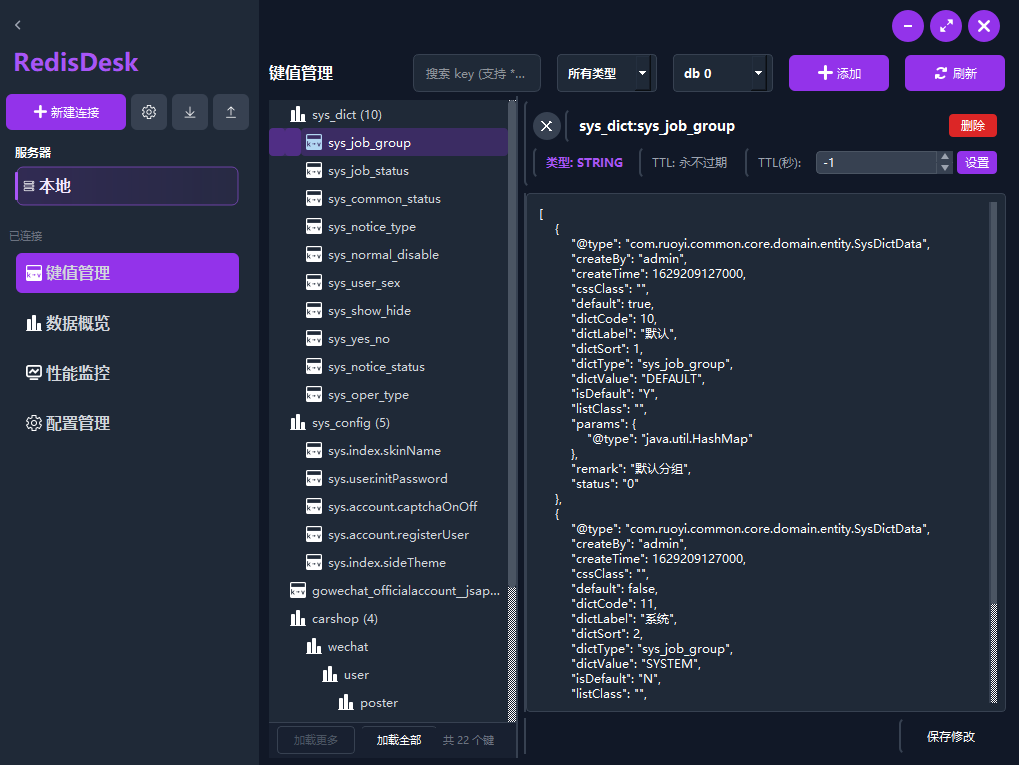
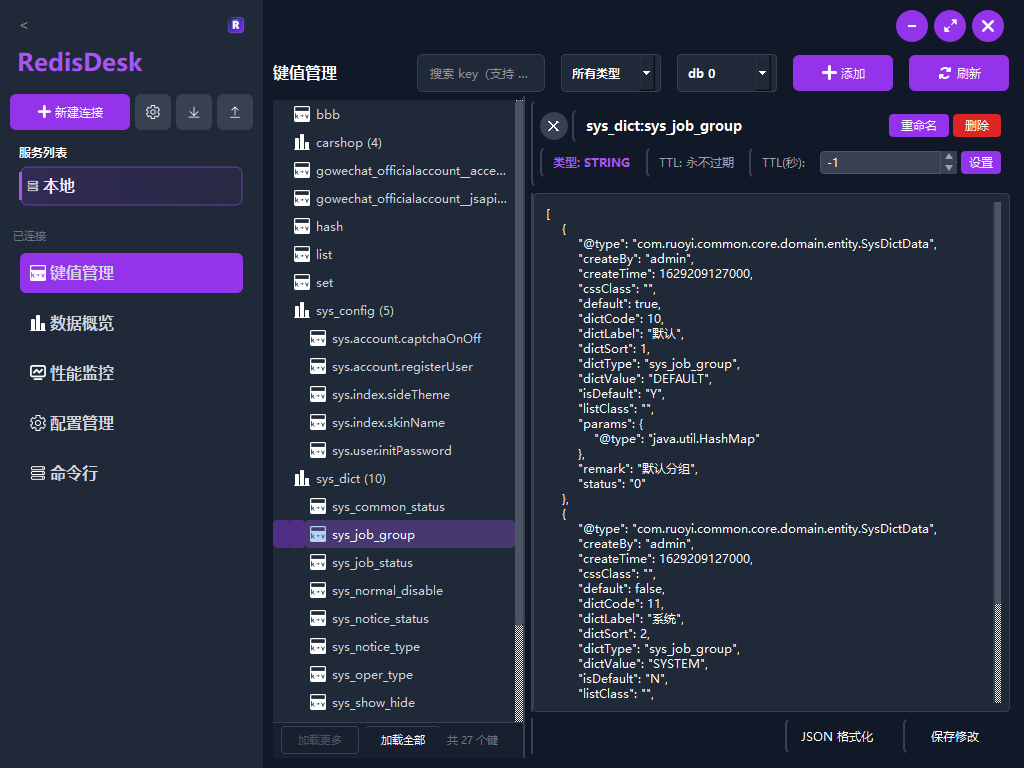
Update docs screenshots and CLI references

diff --git a/docs/project-analysis.md b/docs/project-analysis.md
@@ -2,7 +2,7 @@
 
 ## 项目概述
 
-**RedisDesk** 是一个用 C++17 + Qt Widgets 构建的桌面端 Redis 管理工具，面向开发、调试和运维场景，允许用户通过图形界面可视化地管理和监控 Redis 实例，无需使用命令行工具。
+**RedisDesk** 是一个用 C++17 + Qt Widgets 构建的桌面端 Redis 管理工具，面向开发、调试和运维场景，允许用户通过图形界面可视化地管理和监控 Redis 实例，并可直接打开内置 CLI 执行命令。
 
 ---
 
@@ -17,7 +17,7 @@
 | 构建系统 | CMake 3.16+ |
 | 平台支持 | Windows / macOS / Linux |
 | 开源协议 | MIT |
-| 当前版本 | v0.2.1 |
+| 当前版本 | v0.2.2 |
 
 ---
 
@@ -35,46 +35,54 @@
 
 ![Key Manager](images/key-manager.png)
 
-- 基于 `SCAN` 命令的增量加载（避免阻塞）
-- 分页浏览 / 全量加载模式
-- 通配符关键词搜索
-- 按数据类型过滤（string / hash / list / set / zset）
-- 命名空间树形视图（以 `:` 为分隔符解析层级）
+- 基于 `SCAN` 命令的增量加载，避免大库阻塞
+- 支持分页浏览和全量加载
+- 支持通配符搜索
+- 支持按数据类型过滤（`string` / `hash` / `list` / `set` / `zset`）
+- 以 `:` 为分隔符展示命名空间树
 
-### 3. 数据编辑
+### 3. 内置 CLI
+
+![CLI](images/cli.png)
+
+- 可从当前活动连接的右键菜单直接进入命令行
+- 适合临时执行 Redis 原生命令或调试查询
+- 与图形界面配合使用，减少在外部终端之间切换
+
+### 4. 数据编辑
 
 支持 5 种 Redis 核心数据类型的查看与编辑：
 
 | 类型 | 操作 |
 |---|---|
 | `string` | 查看、修改值 |
-| `hash` | 查看字段列表、编辑 field/value |
+| `hash` | 查看字段列表、编辑 `field/value` |
 | `list` | 查看元素、编辑列表项 |
 | `set` | 查看成员、增删元素 |
 | `zset` | 查看成员及分数、增删元素 |
 
-### 4. 键操作
+### 5. Key 操作
 
 - 新建键（指定类型和初始值）
 - 删除键
-- 修改键的 TTL（过期时间）
+- 修改 TTL（过期时间）
 - 重命名键
-- 切换数据库（db 0 ~ 15）
+- 切换数据库（`db 0` ~ `db 15`）
 
-### 5. 数据概览
+### 6. 数据概览
 
 ![Data Summary](images/data-summary.png)
 
-统计仪表板，展示当前 Redis 实例的整体状态：
+统计仪表板展示当前 Redis 实例的整体状态：
 
-- 键总数量
+- Key 总数
 - 内存使用量
 - 当前连接客户端数
-- Redis 版本与实例角色（主/从）
+- Redis 版本与实例角色（主 / 从）
 - 服务运行时长（Uptime）
-- 各数据类型的键数量分布
+- 各数据类型的 Key 数量分布
 
-### 6. 性能监控
+### 7. 性能监控
 
 ![Performance Monitor](images/performance-monitor.png)
 
@@ -83,12 +91,12 @@
 - CPU 使用率
 - 命令吞吐量（ops/sec）
 - 缓存命中率
-- 网络 I/O（读/写字节）
+- 网络 I/O（读 / 写字节）
 - 内存使用趋势
 
 > 实现方式：轮询 `INFO` 命令采样，非 `MONITOR` 命令流。
 
-### 7. 配置管理
+### 8. 配置管理
 
 ![Config Management](images/config-management.png)
 
@@ -99,43 +107,24 @@
 
 ## 项目结构
 
-```
+```text
 redis-desk/
-├── src/
-│   ├── main.cpp                       # 应用入口
-│   ├── mainwindow.h/cpp               # 主窗口（标签页 + 侧边栏）
-│   ├── constants/
-│   │   ├── constants.h                # 应用常量
-│   │   └── enums.h                    # 菜单枚举与类型定义
-│   ├── redis/
-│   │   └── redisclient.h/cpp          # RESP 协议实现 + 命令队列
-│   ├── models/
-│   │   └── connectionconfig.h/cpp     # 连接配置模型 + JSON 持久化
-│   ├── dialogs/
-│   │   ├── connectiondialog.h/cpp     # 新建/编辑连接对话框
-│   │   ├── addkeydialog.h/cpp         # 新建键对话框
-│   │   └── settingsdialog.h/cpp       # 应用设置对话框
-│   ├── widgets/
-│   │   ├── connectionpanel.h/cpp      # 连接列表面板
-│   │   ├── leftmenupanel.h/cpp        # 左侧导航菜单
-│   │   ├── righttopwidget.h/cpp       # 顶部工具栏
-│   │   ├── keymanagerpage.h/cpp       # 键值浏览主界面
-│   │   ├── datasummarypage.h/cpp      # 数据概览仪表板
-│   │   ├── monitormenupage.h/cpp      # 性能监控页面
-│   │   └── configmenupage.h/cpp       # Redis 配置管理页面
-│   ├── delegates/                     # 自定义列表/表格渲染器
-│   ├── utils/
-│   │   ├── fontmanager.h/cpp          # 字体管理与缓存
-│   │   ├── dpitools.h/cpp             # DPI 缩放工具
-│   │   └── commonhelper.h/cpp         # 通用工具函数
-│   └── resources/
-│       ├── images/                    # 应用图标与图片
-│       └── styles/                    # QSS 样式表
-├── docs/                              # 文档与截图
-├── CMakeLists.txt                     # 根构建配置
-├── CMakePresets.json                  # CMake 预设配置
-├── README.md                          # 中文文档
-└── README.en.md                       # 英文文档
+|-- src/
+|   |-- main.cpp                       # 应用入口
+|   |-- mainwindow.h/cpp               # 主窗口
+|   |-- constants/
+|   |-- redis/
+|   |-- models/
+|   |-- dialogs/
+|   |-- widgets/
+|   |-- delegates/
+|   |-- utils/
+|   `-- resources/
+|-- docs/                              # 文档与截图
+|-- CMakeLists.txt
+|-- CMakePresets.json
+|-- README.md
+`-- README.en.md
 ```
 
 ---

diff --git a/README.md b/README.md
@@ -2,12 +2,12 @@
 
 [English](README.en.md)
 
-RedisDesk 是一个基于 Qt Widgets 的桌面端 Redis 管理工具，面向日常开发、调试和运维场景，提供连接管理、键值浏览、数据编辑、数据概览、性能监控和配置管理等能力。
+RedisDesk 是一个基于 Qt Widgets 的桌面端 Redis 管理工具，面向日常开发、调试和运维场景，提供连接管理、键值浏览、数据编辑、数据概览、性能监控、配置管理和内置命令行等能力。
 
 ## Release 下载
 
-- GitHub Release: https://github.com/lengyue1084/redis-desk/releases/tag/v0.2.1
-- Gitee Release: https://gitee.com/xiaopangda/redis-desk/releases/tag/v0.2.1
+- GitHub Release: https://github.com/lengyue1084/redis-desk/releases/tag/v0.2.2
+- Gitee Release: https://gitee.com/xiaopangda/redis-desk/releases/tag/v0.2.2
 
 ## 功能特性
 
@@ -16,16 +16,21 @@ RedisDesk 是一个基于 Qt Widgets 的桌面端 Redis 管理工具，面向日
 - 键值管理：基于 `SCAN` 增量加载 Key，支持分页、加载全部、通配搜索和类型筛选
 - 命名空间展示：按 `:` 层级树形展示 Key
 - 数据编辑：支持查看和编辑 `string`、`hash`、`list`、`set`、`zset`
-- Key 操作：支持新增 Key、删除 Key、修改 TTL、切换 `db 0` 到 `db 15`
+- Key 操作：支持新建 Key、删除 Key、修改 TTL、切换 `db 0` 到 `db 15`
 - 数据概览：展示 Key 总数、内存使用、客户端连接数、Redis 版本、运行时长、实例角色和 Key 类型分布
 - 性能监控：展示 CPU、命令处理速率、命中率、网络 I/O、内存指标和最近采样记录
 - 配置管理：支持基于 `CONFIG GET *` 查询配置，并通过 `CONFIG SET` 修改配置值
+- 内置 CLI：可从当前连接的右键菜单直接打开 Redis 命令行
 
 ## 界面预览
 
 ### 键值管理
 
 ![键值管理](docs/images/key-manager.png)
+
+### CLI
+
+![CLI](docs/images/cli.png)
 
 ### 数据概览
 
@@ -90,7 +95,6 @@ cmake --build out/build/release --config Release
 |   |-- resources/
 |   |-- utils/
 |   `-- widgets/
-|-- html/
 |-- CMakeLists.txt
 |-- CMakePresets.json
 `-- README.en.md
@@ -99,7 +103,7 @@ cmake --build out/build/release --config Release
 ## 当前限制
 
 - 当前 Redis 通信层是项目内置的轻量 RESP 实现，并非完整第三方 SDK
-- 当前认证支持密码形式的 `AUTH`，也支持 ACL 用户名 + 密码认证
+- 当前认证支持密码形式的 `AUTH`，也支持 ACL 用户名加密码认证
 - 当前主要覆盖常见基础数据类型，不包含 `stream`
 - 当前监控页面基于 `INFO` 轮询，不是 Redis `MONITOR` 命令的流式监听
 

diff --git a/README.en.md b/README.en.md
@@ -6,8 +6,8 @@ RedisDesk is a desktop Redis management tool built with Qt Widgets. It is design
 
 ## Release Downloads
 
-- GitHub Release: https://github.com/lengyue1084/redis-desk/releases/tag/v0.2.1
-- Gitee Release: https://gitee.com/xiaopangda/redis-desk/releases/tag/v0.2.1
+- GitHub Release: https://github.com/lengyue1084/redis-desk/releases/tag/v0.2.2
+- Gitee Release: https://gitee.com/xiaopangda/redis-desk/releases/tag/v0.2.2
 
 ## Features
 
@@ -20,12 +20,17 @@ RedisDesk is a desktop Redis management tool built with Qt Widgets. It is design
 - Data overview: show total keys, memory usage, connected clients, Redis version, uptime, instance role, and key type distribution
 - Performance monitoring: show CPU, command throughput, hit rate, network I/O, memory metrics, and recent samples
 - Configuration management: read settings with `CONFIG GET *` and update values with `CONFIG SET`
+- Built-in CLI: open a Redis command line directly from the active connection context menu
 
 ## Screenshots
 
 ### Key Manager
 
 ![Key Manager](docs/images/key-manager.png)
+
+### CLI
+
+![CLI](docs/images/cli.png)
 
 ### Data Summary
 
